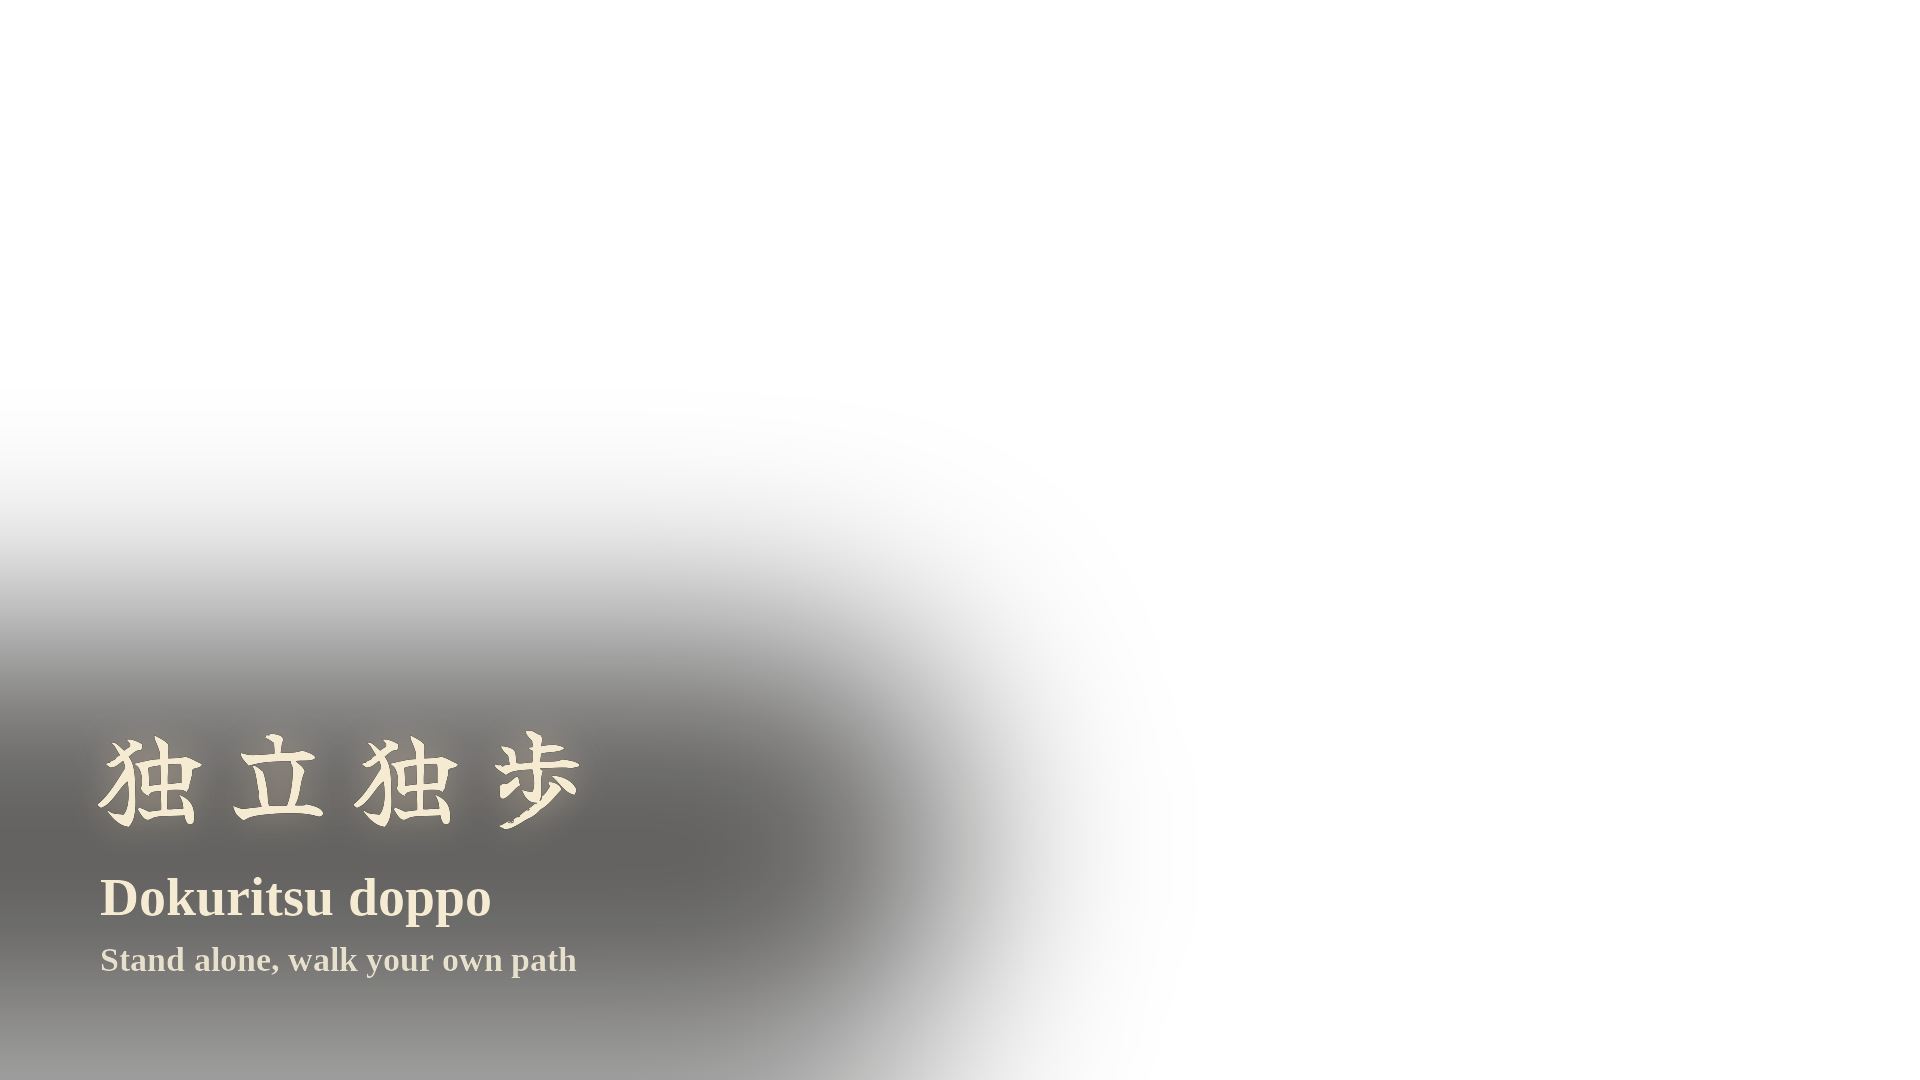
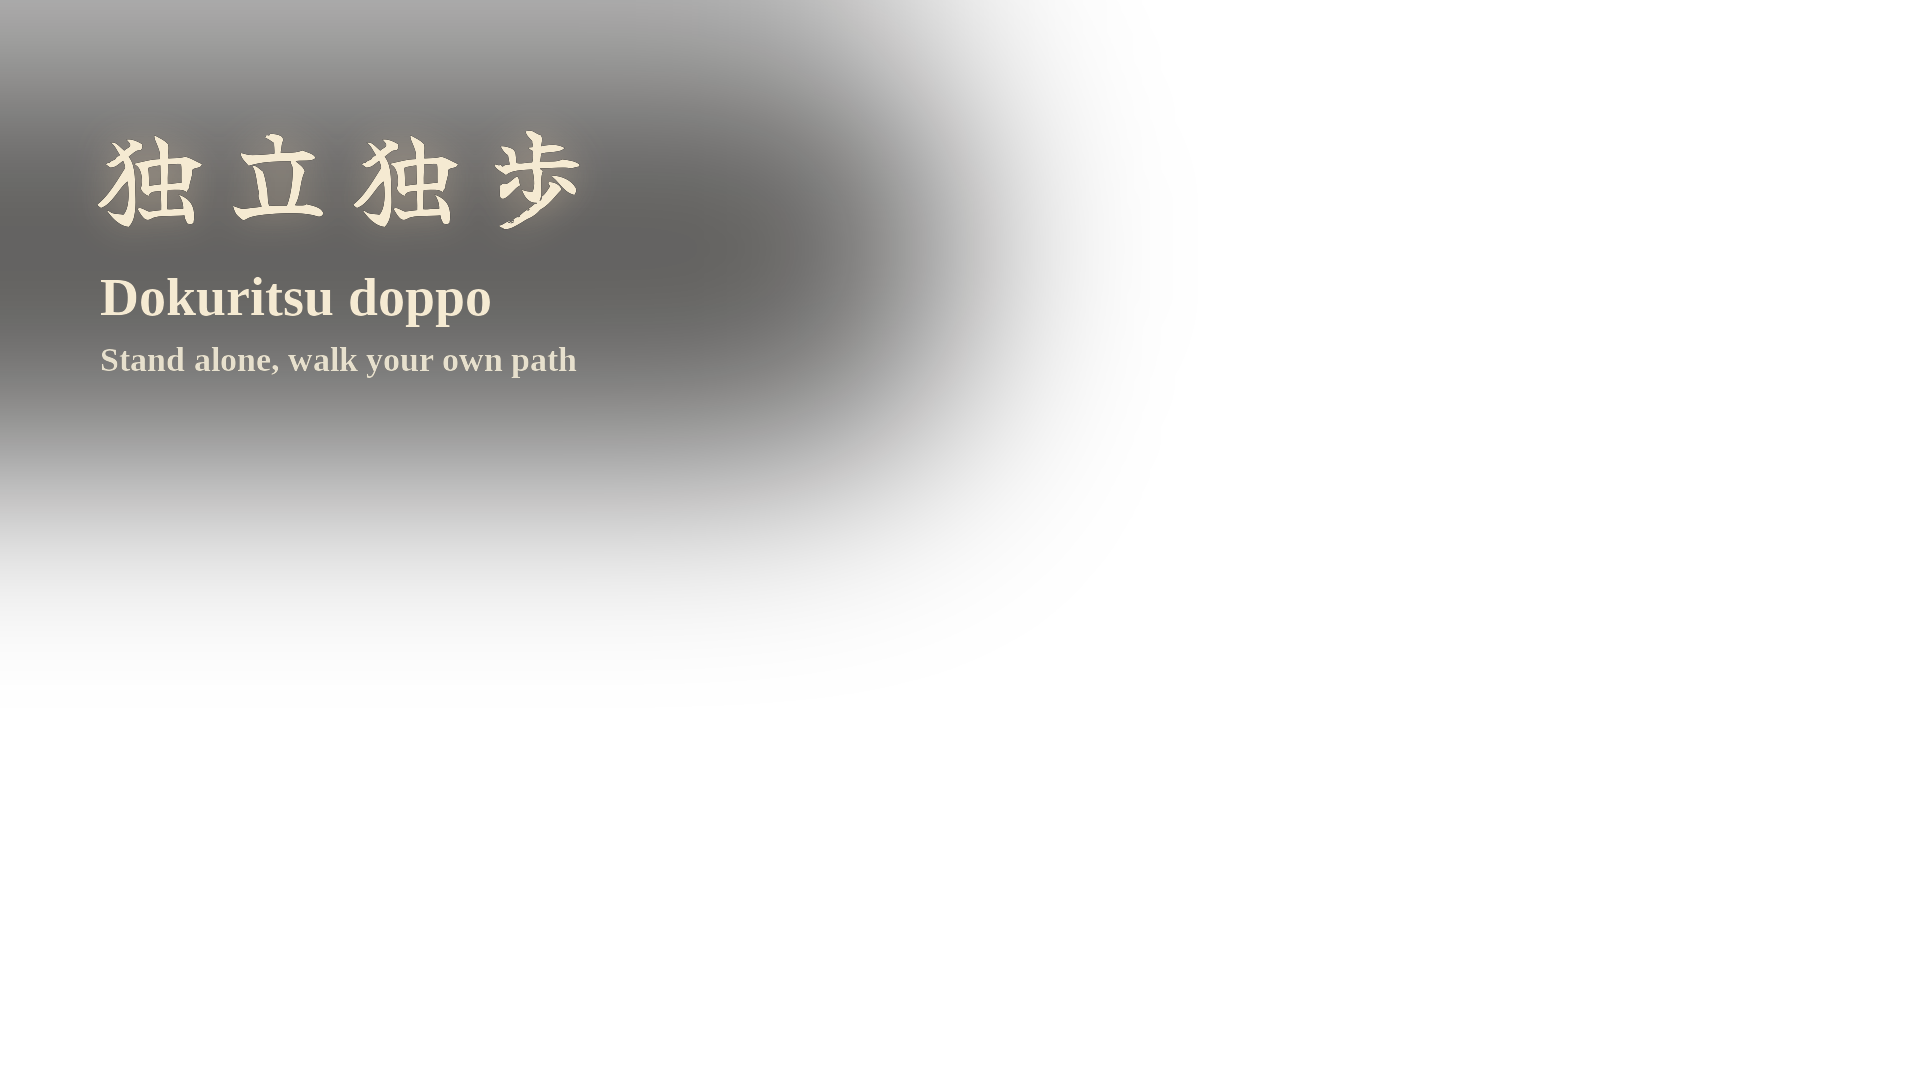
StillWave RONIN: hero frame, overlay moved upper-left, thumbnail
The delivered frame (night road, giant moon) has the figure in the lower-left,
so the overlay is rebuilt in the upper-left; make_overlay.py gains --dx/--dy for
this. Thumbnail: 浪人 in black brush on the moon, RONIN bold white upper-left.
Flow prompt for this frame added.

Claude-Session: https://claude.ai/code/session_014rUxCAgr4C7iAmMHbP4fFt

diff --git a/skills/stillwave-album/scripts/make_overlay.py b/skills/stillwave-album/scripts/make_overlay.py
@@ -57,6 +57,10 @@ def main():
     ap.add_argument("--preview", type=Path, help="where to write the composited QA preview JPG")
     ap.add_argument("--scrim", type=int, default=165,
                     help="scrim opacity 0-255; raise to ~200 when the lower-left is bright")
+    ap.add_argument("--dx", type=int, default=0, help="shift the whole block right (px)")
+    ap.add_argument("--dy", type=int, default=0,
+                    help="shift the whole block down (px); negative moves it up, e.g. -470 for upper-left "
+                         "when the figure stands in the lower-left")
     ap.add_argument("--repo", type=Path, default=Path.cwd(), help="repo root (for the brush font)")
     a = ap.parse_args()
 
@@ -75,14 +79,15 @@ def main():
 
     img = Image.new("RGBA", (W, H), (0, 0, 0, 0))
     s = Image.new("RGBA", (W, H), (0, 0, 0, 0))
-    ImageDraw.Draw(s).rounded_rectangle((-200, 636, 950, 1060), radius=170, fill=(8, 6, 4, a.scrim))
+    ImageDraw.Draw(s).rounded_rectangle((-200 + a.dx, 636 + a.dy, 950 + a.dx, 1060 + a.dy), radius=170,
+                                        fill=(8, 6, 4, a.scrim))
     img.alpha_composite(s.filter(ImageFilter.GaussianBlur(100)))
 
     mask = Image.new("L", (W, H), 0)
     md = ImageDraw.Draw(mask)
-    pitch, y0 = 128, 692
+    pitch, y0 = 128, 692 + a.dy
     l0, _, r0, _ = f.getbbox(chars[0])
-    c0 = X + (r0 - l0) / 2
+    c0 = X + a.dx + (r0 - l0) / 2
     for i, ch in enumerate(chars):
         l, t, r, b = f.getbbox(ch)
         md.text((c0 + i * pitch - (l + (r - l) / 2), y0), ch, font=f, fill=255)
@@ -93,8 +98,8 @@ def main():
     img.alpha_composite(Image.composite(Image.new("RGBA", (W, H), CREAM),
                                         Image.new("RGBA", (W, H), (0, 0, 0, 0)), mask))
     d = ImageDraw.Draw(img)
-    d.text((X + 4, 866), a.romaji, font=ImageFont.truetype(sfont_path, 54), fill=CREAM)
-    d.text((X + 4, 940), a.gloss, font=ImageFont.truetype(sfont_path, 34), fill=SUB)
+    d.text((X + 4 + a.dx, 866 + a.dy), a.romaji, font=ImageFont.truetype(sfont_path, 54), fill=CREAM)
+    d.text((X + 4 + a.dx, 940 + a.dy), a.gloss, font=ImageFont.truetype(sfont_path, 34), fill=SUB)
 
     a.out.parent.mkdir(parents=True, exist_ok=True)
     img.save(a.out)
@@ -106,7 +111,8 @@ def main():
     if a.hero:
         hero = Image.open(a.hero).convert("RGB").resize((W, H), Image.LANCZOS)
         g = hero.convert("L")
-        for name, box in {"kanji row": (96, 692, 608, 790), "romaji+gloss": (96, 860, 608, 980),
+        for name, box in {"kanji row": (96 + a.dx, 692 + a.dy, 608 + a.dx, 790 + a.dy),
+                          "romaji+gloss": (96 + a.dx, 860 + a.dy, 608 + a.dx, 980 + a.dy),
                           "full frame": (0, 0, W, H)}.items():
             print(f"brightness {name}: {ImageStat.Stat(g.crop(box)).mean[0]:.0f}")
         if a.preview:

diff --git a/stillwave/assets/ronin-compose-thumb.py b/stillwave/assets/ronin-compose-thumb.py
@@ -1,0 +1,57 @@
+#!/usr/bin/env python3
+"""RONIN thumbnail — 1280x720.
+
+浪人 in black sumi brush (YujiBoku) stacked on the full moon, the frame's visual
+hook, and RONIN in bold white in the dark upper-left over the cedars, clear of
+the figure's hat. Source: ronin-2h-source.jpg (clean frame, no text).
+"""
+from pathlib import Path
+from PIL import Image, ImageDraw, ImageFilter, ImageFont
+
+HERE = Path(__file__).parent
+SRC = HERE / "ronin-2h-source.jpg"
+OUT = HERE / "ronin-2h-thumb.jpg"
+KANJI = str(HERE / "fonts" / "YujiBoku-Regular.ttf")
+SANS = "/usr/share/fonts/truetype/liberation/LiberationSans-Bold.ttf"
+W, H = 1280, 720
+
+bg = Image.open(SRC).convert("RGB").resize((W, H), Image.LANCZOS).convert("RGBA")
+
+# 浪人 on the moon: black ink with a faint light halo so strokes stay readable over the dark maria
+f = ImageFont.truetype(KANJI, 104)
+mask = Image.new("L", (W, H), 0)
+md = ImageDraw.Draw(mask)
+cx, y = 656, 8
+for ch in "浪人":
+    l, t, r, b = f.getbbox(ch)
+    md.text((cx - (l + r) / 2, y - t), ch, font=f, fill=255)
+    y += (b - t) + 14
+halo = Image.new("RGBA", (W, H), (0, 0, 0, 0))
+halo.paste((235, 238, 245, 255), (0, 0), mask.filter(ImageFilter.GaussianBlur(7)).point(lambda p: min(255, int(p * 1.6))))
+bg.alpha_composite(halo)
+bg.alpha_composite(Image.composite(Image.new("RGBA", (W, H), (12, 10, 12, 255)), Image.new("RGBA", (W, H), (0, 0, 0, 0)), mask))
+
+# RONIN upper-left, bold white, soft dark shadow
+d = ImageDraw.Draw(bg)
+ft = ImageFont.truetype(SANS, 124)
+text, x, ty, track = "RONIN", 52, 44, 10
+sh = Image.new("RGBA", (W, H), (0, 0, 0, 0))
+sd = ImageDraw.Draw(sh)
+xx = x
+for ch in text:
+    sd.text((xx + 3, ty + 5), ch, font=ft, fill=(0, 0, 0, 230))
+    xx += ft.getlength(ch) + track
+bg.alpha_composite(sh.filter(ImageFilter.GaussianBlur(8)))
+d = ImageDraw.Draw(bg)
+xx = x
+for ch in text:
+    d.text((xx, ty), ch, font=ft, fill=(255, 255, 255, 255))
+    xx += ft.getlength(ch) + track
+fs = ImageFont.truetype(SANS, 34)
+xx = x + 4
+for ch in "SAMURAI ZEN MUSIC":
+    d.text((xx, ty + 140), ch, font=fs, fill=(245, 234, 210, 255))
+    xx += fs.getlength(ch) + 5
+
+bg.convert("RGB").save(OUT, "JPEG", quality=92, optimize=True, progressive=True)
+print("saved", OUT, "RONIN right edge", int(xx))

diff --git a/stillwave/scripts/ronin-2h.md b/stillwave/scripts/ronin-2h.md
@@ -6,7 +6,7 @@
 - **Concept:** a ronin is a samurai with no master: no banner, no orders, only the work in front of you and the breath that carries it. Deep-focus album.
 - **Playlist (add to in Studio):** Japanese Zen Music
 - **Length target:** 2H, built from **8 Musicful tracks (~3:15 each) stitched into one cycle and looped to 2 hours** — the short-album format the user switched to on 2026-11-12 (see `CLAUDE.md`).
-- **Status:** 📝 title + description drafted by the user, overlay built, image prompts and the Musicful music prompt written (§1, §3, §4). Waiting for: hero frame; track generation in the "dan-documents" environment.
+- **Status:** 📝 title + description drafted by the user, overlay built, image prompts and the Musicful music prompt written (§1, §3, §4). Hero frame chosen, overlay placed, thumbnail built (§5). Waiting for: track generation in the "dan-documents" environment.
 
 **🇺🇦 RU:** Ронин — самурай без господина: ни знамени, ни приказов, только работа перед тобой и дыхание. Альбом для глубокой концентрации. Ждём папку с треками и кадр.
 
@@ -50,15 +50,29 @@ Photorealistic cinematic still, 16:9, 4K, muted and restrained like a frame from
 Feed the clean hero (no text). Camera completely locked: no pan, no zoom, no dolly. Keep the ronin, his hat, cloak and swords, the path and the mountains exactly as they are, as a frozen photograph. The ronin does not move. Animate ONLY: (1) the valley mist drifting very slowly sideways, soft and continuous; (2) the pampas grass swaying gently in a light breeze; (3) the glow of the sun breathing almost imperceptibly in brightness; (4) the hem of the cloak stirring very slightly. Everything is slow and calm. Perfectly seamless 8-second loop, last frame matches first frame exactly.
 ```
 
+## §4b — Flow loop (for variant B, the chosen frame)
+```
+Feed the clean hero (no text). Camera completely locked: no pan, no zoom, no dolly. Keep the ronin, his hat, cloak and swords, the cedars, the stone road, the mountain and the moon exactly as they are, as a frozen photograph. The ronin does not move. Animate ONLY: (1) the low mist between the trees drifting very slowly sideways, soft and continuous; (2) the small flame inside the stone lantern flickering gently, a calm candle-like glow; (3) the ragged hem of the cloak stirring very slightly; (4) the faintest shimmer of moonlight on the wet stones of the road. Everything is slow and calm. Perfectly seamless 8-second loop, last frame matches first frame exactly.
+```
+
+## §5 — Chosen frame, overlay placement, thumbnail (2026-11-12)
+
+- **Frame:** the user generated variant B (night road, giant moon, stone lantern). Saved as `assets/ronin-2h-source.jpg`. The original is only 1376x768, so it is upscaled ~1.4x for 1080p; re-download at a higher resolution if the generator allows.
+- **Hat:** a woven travelling kasa, closest to an ajirogasa / sandogasa type — historically plausible for a ronin on the road.
+- **Overlay:** the figure stands in the lower-left, where the standard overlay would cover the swords, so the overlay sits in the **upper-left** over the dark cedars (`make_overlay.py --dy -600`).
+- **Thumbnail:** `assets/ronin-2h-thumb.jpg` (`ronin-compose-thumb.py`): 浪人 in black brush on the moon, RONIN in bold white upper-left, small `SAMURAI ZEN MUSIC` under it.
+
+**🇺🇦 RU:** Выбран вариант B (ночная дорога, луна, фонарь). Исходник маленький (1376x768), для 1080p он растягивается в 1,4 раза. Фигура стоит слева внизу, поэтому оверлей перенесён в левый верхний угол. Превью: 浪人 чёрной кистью на луне, RONIN белым слева вверху.
+
 ## §6a — Wisdom Overlay
 
 - Line 1 (kanji): **独立独歩**
 - Line 2 (romaji): *Dokuritsu doppo*
 - Line 3 (gloss): Stand alone, walk your own path
-- File: `assets/ronin-dokuritsu-doppo-overlay.png` (YujiBoku brush font, cream, lower-left, own scrim). Built before the hero frame arrived; re-check placement on the frame.
+- File: `assets/ronin-dokuritsu-doppo-overlay.png` (YujiBoku brush font, cream, lower-left, own scrim). Placed upper-left on the chosen frame (`--dy -600`), clear of the figure and the moon.
 - CapCut: text layer on the top track, 0:03 → 0:14, fade in 2 s, fade out 2 s, no glow/box.
 
-**🇺🇦 RU:** 独立独歩 — «стоять самому, идти своим путём»: классический четырёхзнак про самостоятельность, точно про ронина, но само слово 浪人 не называет. Оверлей собран до получения кадра, расположение нужно проверить по кадру.
+**🇺🇦 RU:** 独立独歩 — «стоять самому, идти своим путём»: классический четырёхзнак про самостоятельность, точно про ронина, но само слово 浪人 не называет. На выбранном кадре оверлей стоит слева вверху, не задевая фигуру и луну.
 
 ## §7 — Title
 
